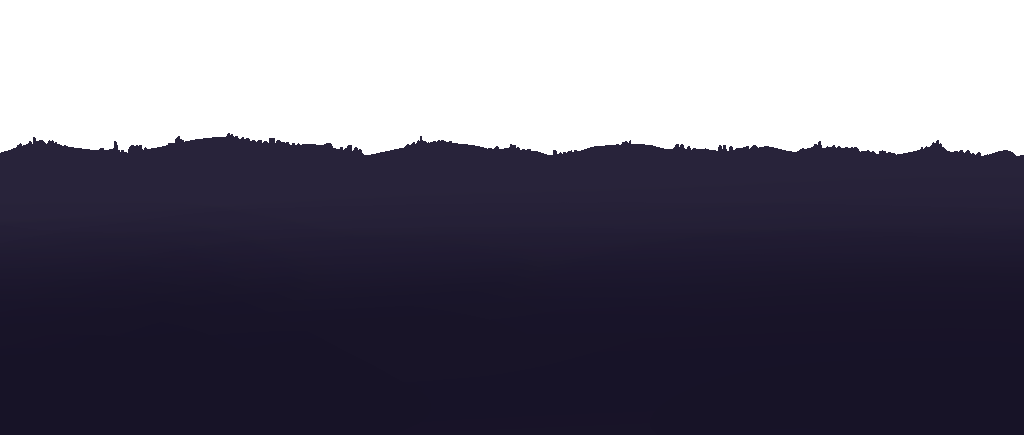
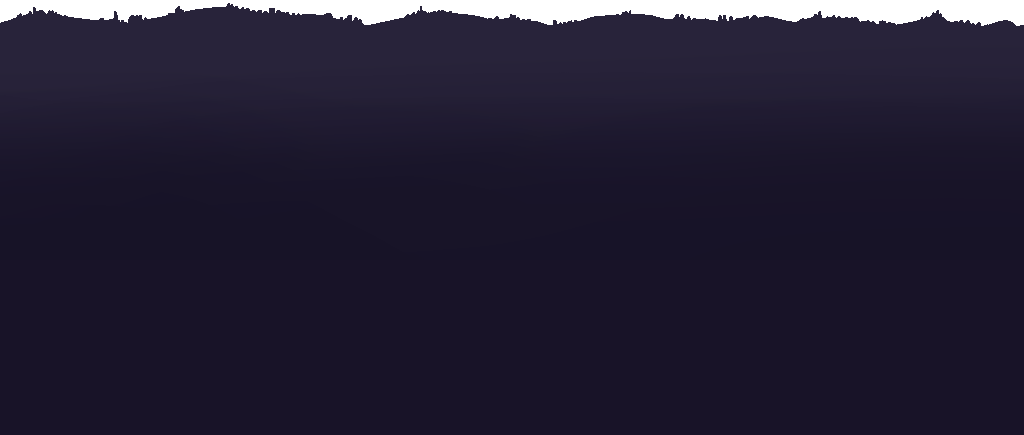
Finally fixed BG :) (almost :((( )

Changed region(s): [[0.0, 0.0, 1.0, 0.3586]]

diff --git a/Backgrounds/СrimsonInfectedMushroomSurfaceBiomeBGStyle.cs b/Backgrounds/СrimsonInfectedMushroomSurfaceBiomeBGStyle.cs
@@ -1,14 +1,24 @@
-using Terraria.ModLoader;
+using BiomeExpansion.Helpers;
+using Microsoft.Xna.Framework.Graphics;
+using Terraria;
+using Terraria.ModLoader;
 
 namespace BiomeExpansion.Backgrounds;
 
 public class СrimsonInfectedMushroomSurfaceBiomeBGStyle : ModSurfaceBackgroundStyle
 {
-    public override int ChooseCloseTexture(ref float scale, ref double parallax, ref float a, ref float b)
-    {
-        b -= 250f;
[1 lines of base64/hex data omitted]
-    }
+    private const int MiddleBGYOffset = 225;
+    private const int CloseBGYOffset = 75;
[4 lines of base64/hex data omitted]
+    
+    public override int ChooseFarTexture() => BackgroundTextureLoader.GetBackgroundSlot(HorizonTexture);
+    
+    public override int ChooseMiddleTexture() => BackgroundTextureLoader.GetBackgroundSlot(FarTexture);
+    
+    public override int ChooseCloseTexture(ref float scale, ref double parallax, ref float a, ref float b) => BackgroundTextureLoader.GetBackgroundSlot(MiddleTexture);
 
     public override void ModifyFarFades(float[] fades, float transitionSpeed)
     {
@@ -31,5 +41,32 @@ public class СrimsonInfectedMushroomSurfaceBiomeBGStyle : ModSurfaceBackgroundS
                 }
             }
         }
+    }
+
+    public override bool PreDrawCloseBackground(SpriteBatch spriteBatch)
+    {
+        bool canBGDraw = (!Main.remixWorld || (Main.gameMenu && !WorldGen.remixWorldGen)) && (!WorldGen.remixWorldGen || !WorldGen.drunkWorldGen);
+        if (Main.mapFullscreen) canBGDraw = false;
+        int offset = 30;
+        if (Main.gameMenu) offset = 0;
+        if (WorldGen.drunkWorldGen) offset = -180;
+        float surfacePosition = (float)Main.worldSurface;
+        if (surfacePosition == 0f) surfacePosition = 1f;
+        int pushBGTopHack;
+        const int offset2 = -180;
+        int menuOffset = 0;
+        if (Main.gameMenu) menuOffset -= offset2;
+        pushBGTopHack = menuOffset;
+        pushBGTopHack += offset;
+        pushBGTopHack += offset2;
+        if (canBGDraw)
+        {
+            BackgroundHelper.DrawLayer(ModContent.Request<Texture2D>(MiddleTexture).Value, surfacePosition,
+                MiddleBGYOffset, 1.25f, 0.4f, 1800.0f, 1500.0f, 320, 0, 1.2f, pushBGTopHack);
+            BackgroundHelper.DrawLayer(ModContent.Request<Texture2D>(CloseTexture).Value, surfacePosition,
+                CloseBGYOffset, 1.31f, 0.43f, 1950.0f, 1750.0f, 400, 80, 1f, pushBGTopHack);
+        }
+        
+        return false;
     }
 }

diff --git a/Backgrounds/СorruptionInfectedMushroomSurfaceBiomeBGStyle.cs b/Backgrounds/СorruptionInfectedMushroomSurfaceBiomeBGStyle.cs
@@ -7,14 +7,12 @@ namespace BiomeExpansion.Backgrounds;
 
 public class СorruptionInfectedMushroomSurfaceBiomeBGStyle : ModSurfaceBackgroundStyle
 { 
-    private const int MiddleBGYOffset = 70;
-    private const int CloseBGYOffset = 80;
-    private const int FrontBGYOffset = 110;
+    private const int MiddleBGYOffset = 225;
+    private const int CloseBGYOffset = 75;
[5 lines of base64/hex data omitted]
     
     public override int ChooseFarTexture() => BackgroundTextureLoader.GetBackgroundSlot(HorizonTexture);
     
@@ -67,8 +65,6 @@ public class СorruptionInfectedMushroomSurfaceBiomeBGStyle : ModSurfaceBackgrou
                 MiddleBGYOffset, 1.25f, 0.4f, 1800.0f, 1500.0f, 320, 0, 1.2f, pushBGTopHack);
             BackgroundHelper.DrawLayer(ModContent.Request<Texture2D>(CloseTexture).Value, surfacePosition,
                 CloseBGYOffset, 1.31f, 0.43f, 1950.0f, 1750.0f, 400, 80, 1f, pushBGTopHack);
-            BackgroundHelper.DrawLayer(ModContent.Request<Texture2D>(FrontTexture).Value, surfacePosition,
-                FrontBGYOffset, 1.34f, 0.49f, 2100.0f, 2000.0f, 480, 120, 1f, pushBGTopHack);
         }
         
         return false;

diff --git a/Content/Biomes/CorruptionInfectedMushroomSurfaceBiome.cs b/Content/Biomes/CorruptionInfectedMushroomSurfaceBiome.cs
@@ -3,6 +3,7 @@ using BiomeExpansion.Common.Systems;
 using Terraria;
 using Terraria.GameContent.Events;
 using Terraria.Graphics.Capture;
+using Terraria.Graphics.Effects;
 using Terraria.ID;
 using Terraria.ModLoader;
 
@@ -25,9 +26,15 @@ namespace BiomeExpansion.Content.Biomes
         public override bool IsBiomeActive(Player player) {
             return !player.ZoneDungeon && ModContent.GetInstance<BiomeTileCounterSystem>().CorruptionInfectedMushroomBiomeTileCount >= 150;
         }
-        // public override void SpecialVisuals(Player player, bool isActive)
-        // {
-        //     player.ManageSpecialBiomeVisuals("BiomeExpansion:CorruptionInfectedMushroomSurfaceBiome:", isActive);
-        // }
+
+        public override void OnInBiome(Player player)
+        {
+            Filters.Scene["BiomeExpansion:CorruptionInfectedMushroomShader"].Active = true;
+        }
+
+        public override void OnLeave(Player player)
+        {
+            Filters.Scene["BiomeExpansion:CorruptionInfectedMushroomShader"].Active = false;
+        }
     }   
 }

diff --git a/BiomeExpansion.cs b/BiomeExpansion.cs
@@ -1,8 +1,6 @@
-using System;
-using System.Collections.Generic;
-using System.Linq;
-using System.Text;
-using System.Threading.Tasks;
+using BiomeExpansion.Helpers;
+using Terraria.Graphics.Effects;
+using Terraria.Graphics.Shaders;
 using Terraria.ModLoader;
 
 namespace BiomeExpansion
@@ -10,6 +8,10 @@ namespace BiomeExpansion
 	// Please read https://github.com/tModLoader/tModLoader/wiki/Basic-tModLoader-Modding-Guide#mod-skeleton-contents for more information about the various files in a mod.
 	public class BiomeExpansion : Mod
 	{
-
+		public override void Load()
+		{
+			ShaderHelper.LoadNewShader("BiomeExpansion:CorruptionInfectedMushroomShader", new Filter(new ScreenShaderData("FilterBloodMoon").UseColor(83, 62, 125).UseOpacity(0.95f), EffectPriority.High));
+			ShaderHelper.LoadNewShader("BiomeExpansion:CrimsonInfectedMushroomShader", new Filter(new ScreenShaderData("FilterBloodMoon").UseColor(171, 22, 22).UseOpacity(0.95f), EffectPriority.High));
+		}
 	}
 }

diff --git a/Content/Biomes/CrimsonInfectedMushroomSurfaceBiome.cs b/Content/Biomes/CrimsonInfectedMushroomSurfaceBiome.cs
@@ -3,6 +3,7 @@ using BiomeExpansion.Common.Systems;
 using Terraria;
 using Terraria.GameContent.Events;
 using Terraria.Graphics.Capture;
+using Terraria.Graphics.Effects;
 using Terraria.ID;
 using Terraria.ModLoader;
 
@@ -24,6 +25,16 @@ namespace BiomeExpansion.Content.Biomes
 
         public override bool IsBiomeActive(Player player) {
             return !player.ZoneDungeon && ModContent.GetInstance<BiomeTileCounterSystem>().CrimsonInfectedMushroomBiomeTileCount >= 150;
+        }
+        
+        public override void OnInBiome(Player player)
+        {
+            Filters.Scene["BiomeExpansion:CrimsonInfectedMushroomShader"].Active = true;
+        }
+
+        public override void OnLeave(Player player)
+        {
+            Filters.Scene["BiomeExpansion:CrimsonInfectedMushroomShader"].Active = false;
         }
     }   
 }

diff --git a/Helpers/TextureHelper.cs b/Helpers/TextureHelper.cs
@@ -8,9 +8,9 @@ public static class TextureHelper
     public const string AssetsLocation = "BiomeExpansion/Assets";
     public static readonly string ModSourcesDirectory = ModLoader.ModPath.Replace("Mods", "ModSources");
     
-    public static string GetDynamicTileItemTexture(string fileName)
+    public static string GetDynamicItemTexture(string fileName)
     {
-        return GetDynamicTexture($"{AssetsLocation}/Items/Placeable", fileName);
+        return GetDynamicTexture($"{AssetsLocation}/Items", fileName);
     }
     
     public static string GetDynamicTileTexture(string fileName)

diff --git a/Content/Items/Placeable/CorruptionInfectedSmallMushroom.cs b/Content/Items/Placeable/CorruptionInfectedSmallMushroom.cs
@@ -5,7 +5,7 @@ namespace BiomeExpansion.Content.Items.Placeable;
 
 public class CorruptionInfectedSmallMushroom : ModItem
 {
-    public override string Texture => TextureHelper.GetDynamicTileItemTexture("CorruptionInfectedSmallMushroom");
+    public override string Texture => TextureHelper.GetDynamicItemTexture("CorruptionInfectedSmallMushroom");
     
     public override void SetStaticDefaults()
     {

diff --git a/Content/Items/Placeable/CrimsonInfectedSmallMushroom.cs b/Content/Items/Placeable/CrimsonInfectedSmallMushroom.cs
@@ -5,7 +5,7 @@ namespace BiomeExpansion.Content.Items.Placeable;
 
 public class CrimsonInfectedSmallMushroom : ModItem
 {
-    public override string Texture => TextureHelper.GetDynamicTileItemTexture("CrimsonInfectedSmallMushroom");
+    public override string Texture => TextureHelper.GetDynamicItemTexture("CrimsonInfectedSmallMushroom");
     
     public override void SetStaticDefaults()
     {

diff --git a/Helpers/BiomeHelper.cs b/Helpers/BiomeHelper.cs
@@ -53,7 +53,7 @@ public static class BiomeHelper
 
     private static bool IsSpawnNear(int x, int minimumDistance)
     {
-        int spawnTileX = Main.spawnTileX;
+        int spawnTileX = Main.maxTilesX / 2;
         return (x + minimumDistance > spawnTileX && x < spawnTileX + minimumDistance)
                || (x - minimumDistance < spawnTileX && x > spawnTileX - minimumDistance);
     }

diff --git a/Content/Items/Placeable/InfectedMushroomDirt.cs b/Content/Items/Placeable/InfectedMushroomDirt.cs
@@ -5,7 +5,7 @@ namespace BiomeExpansion.Content.Items.Placeable;
 
 public class InfectedMushroomDirt : ModItem
 {
-    public override string Texture => TextureHelper.GetDynamicTileItemTexture("InfectedMushroomDirt");
+    public override string Texture => TextureHelper.GetDynamicItemTexture("InfectedMushroomDirt");
     
     public override void SetStaticDefaults()
     {

diff --git a/Helpers/ShaderHelper.cs b/Helpers/ShaderHelper.cs
@@ -1,0 +1,12 @@
+using Terraria.Graphics.Effects;
+
+namespace BiomeExpansion.Helpers;
+
+public static class ShaderHelper
+{
+    public static void LoadNewShader(string shaderName, Filter filter)
+    {
+        Filters.Scene[shaderName] = filter;
+        Filters.Scene[shaderName].Load();
+    }
+}
